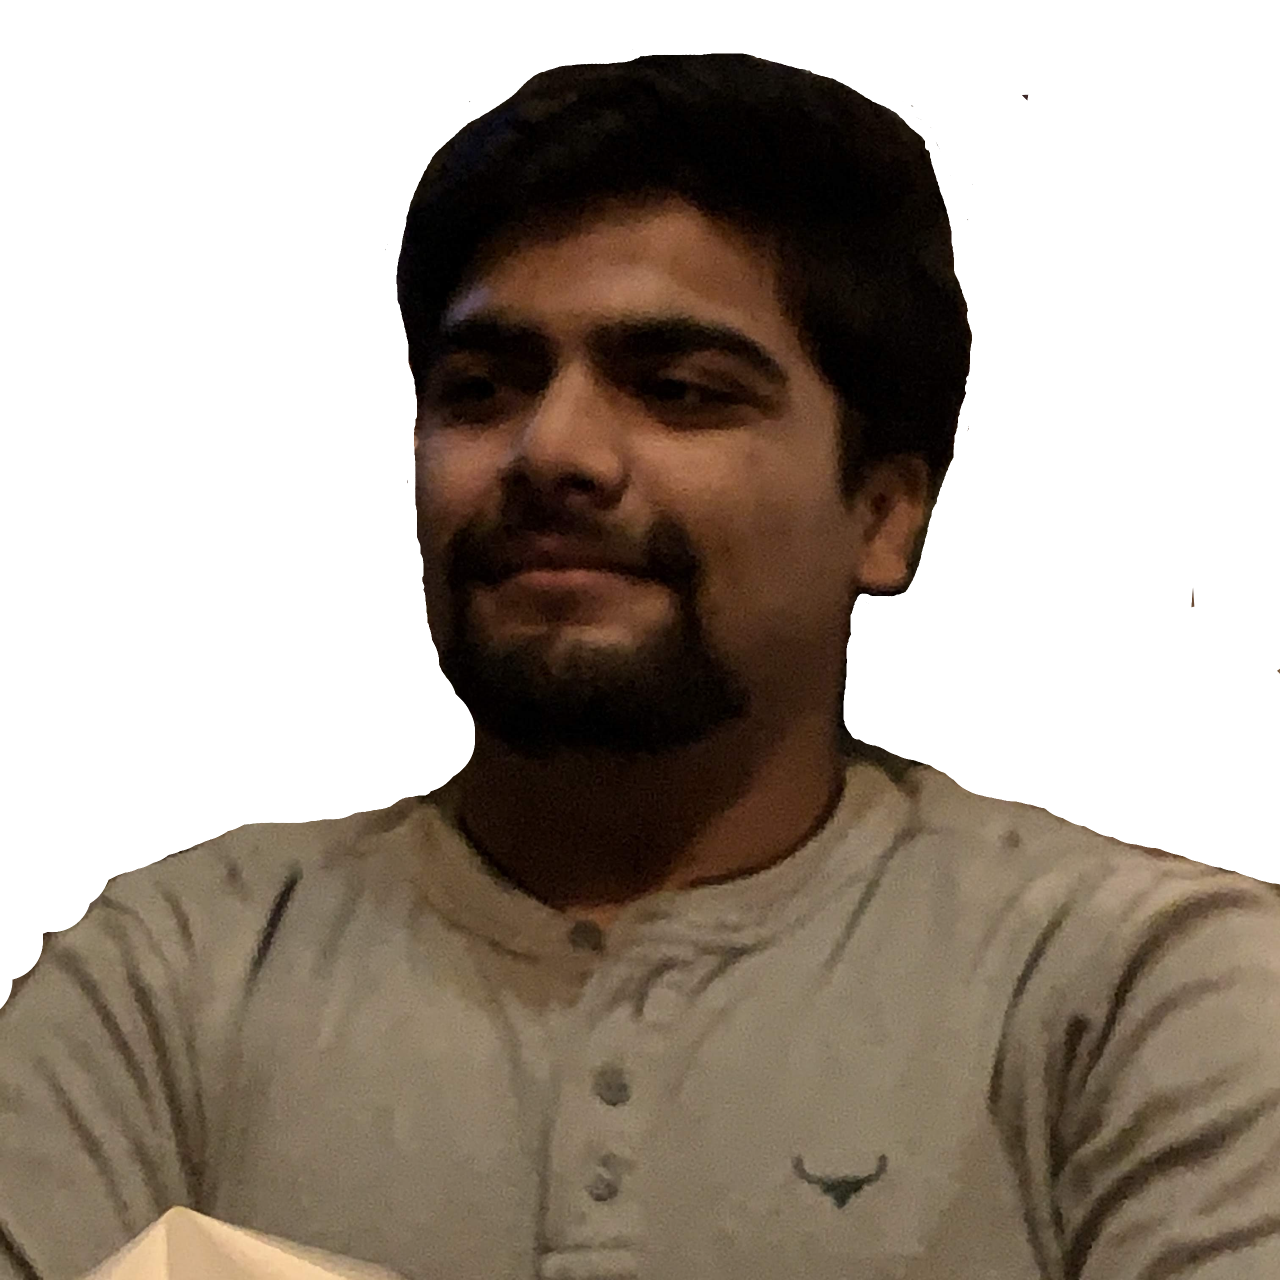
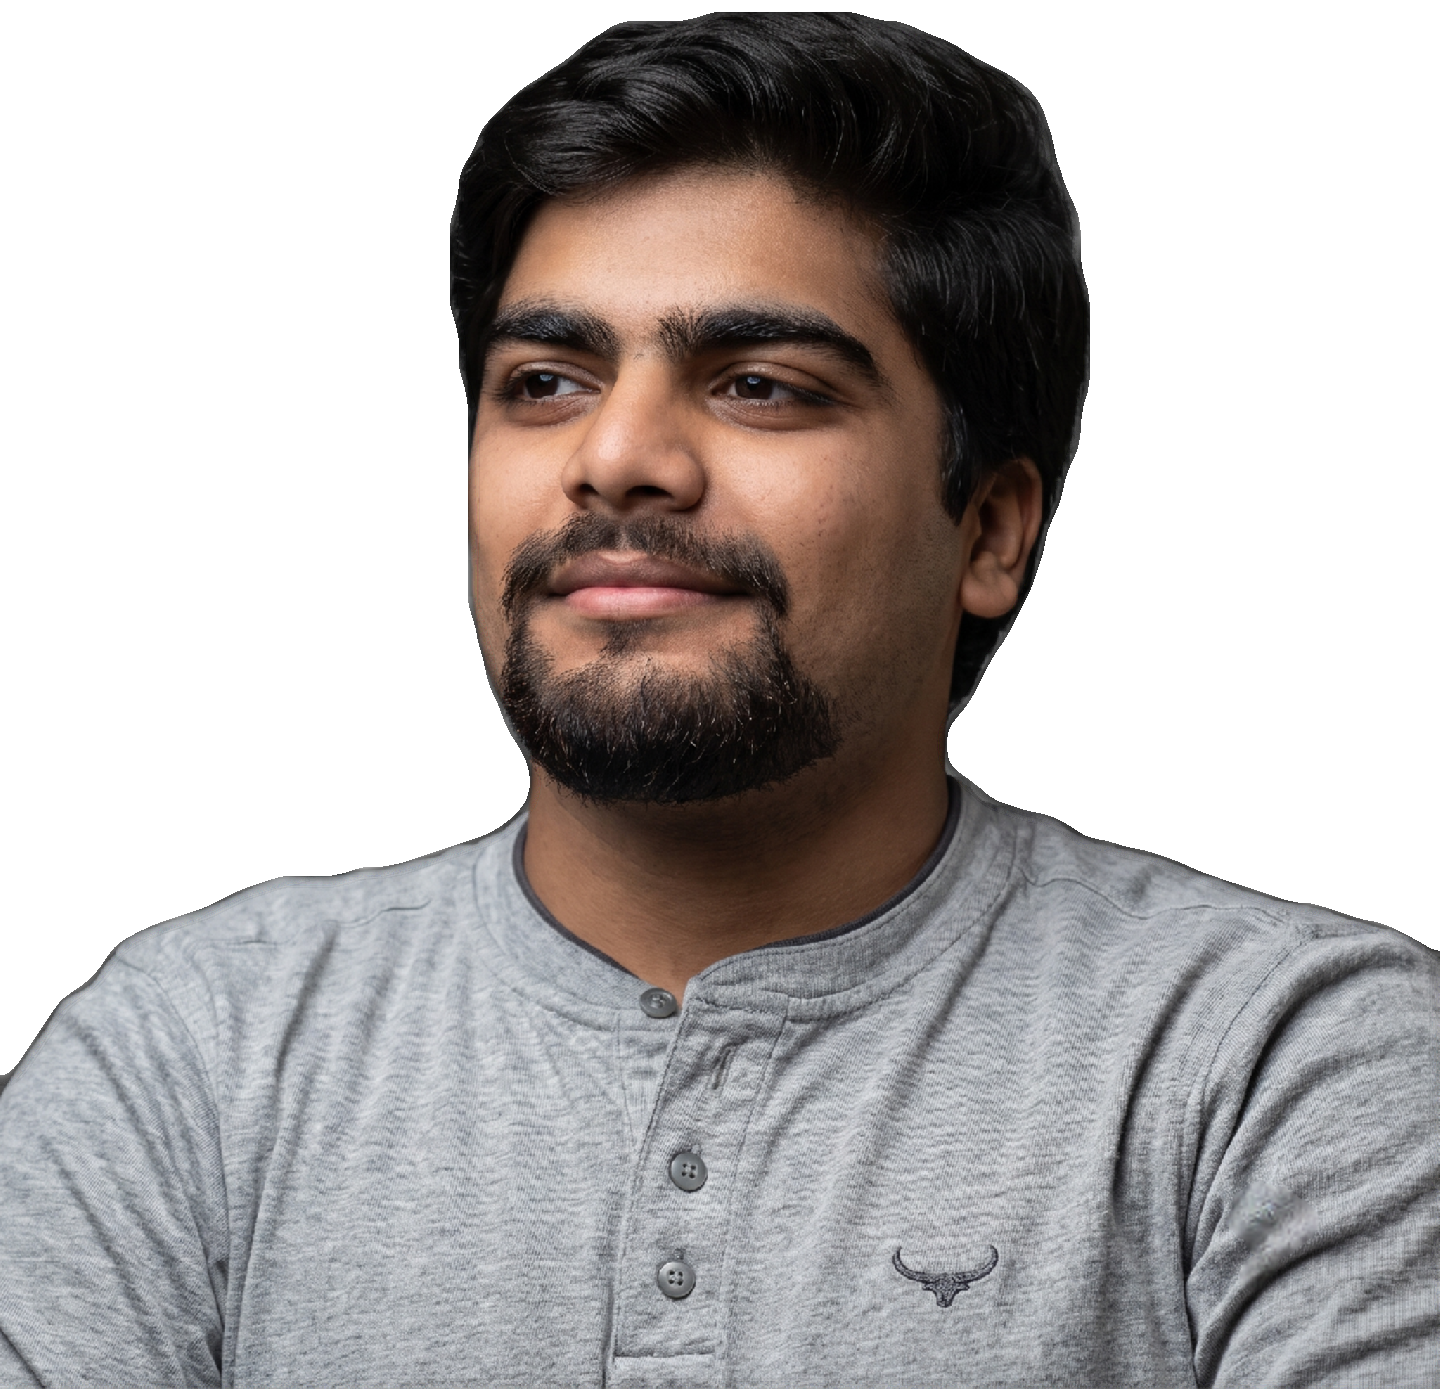
hobbies images added

diff --git a/src/profile.js b/src/profile.js
@@ -123,7 +123,7 @@ const experience = [
   {
     company: "Samsung Research Institute, Bangalore",
     role: "Chief Engineer — AI/ML Engineering",
-    period: "Aug 2021 – Present",
+    period: "Aug 2021 - Present",
     current: true,
     points: [
       "Architected B-UniQUE.ai — a multi-agent LLM framework (four specialized agents) that drives Bixby end-to-end from a single utterance: setup, navigation, verdict, and multi-turn dialogue.",
@@ -138,7 +138,7 @@ const experience = [
   {
     company: "B2be.com",
     role: "Java Developer",
-    period: "Sep 2019 – Jul 2021",
+    period: "Sep 2019 - Jul 2021",
     points: [
       "Built an OCR-based data-extraction pipeline for ERP integration — converting vendor PDFs into structured data as an EDI gateway across heterogeneous ERP ecosystems.",
       "Built configurable extraction rules supporting multiple client ERP implementations, improving onboarding speed for new clients.",
@@ -147,7 +147,7 @@ const experience = [
   {
     company: "Samsung Research (via Access Automation Pvt. Ltd.)",
     role: "Test Engineer",
-    period: "Apr 2017 – Aug 2019",
+    period: "Apr 2017 - Aug 2019",
     points: [
       "Built a full-stack Java automation tool for Bixby testing with remote server-side evaluation via a web interface.",
       "Developed a full-stack internal app using Node.js and Electron for automation workflows.",
@@ -165,7 +165,7 @@ const projects = [
     tag: "Production · Samsung Research",
     blurb:
       "End-to-end ASR & NMT evaluation framework across 5+ Galaxy AI solutions (Live Translate, Interpreter, Dictation, Text Call, Voice Recorder), replacing manual review with standardized automated scoring for Hinglish / multilingual edge cases.",
-    metrics: ["173,999+ audio files", "+5–7% ASR quality", "4 locales", "Demoed to CTO"],
+    metrics: ["173,999+ audio files", "+5-7% ASR quality", "4 locales", "Demoed to CTO"],
     stack: ["Python", "diff-match-patch", "LaBSE", "BLEU", "UIAutomator", "Ollama"],
   },
   {
@@ -236,7 +236,7 @@ const hobbies = [
   },
   {
     title: "Trekking",
-    blurb: "Weekend trails and boulder country around Karnataka.",
+    blurb: "Weekend trails and boulder around.",
     image: "hobbies/trekking.jpg",
     url: INSTAGRAM,
   },
@@ -262,21 +262,21 @@ const publications = {
   education: {
     degree: "B.Tech, Computer Science",
     school: "Sri Krishna Institute of Technology",
-    period: "2013 – 2017",
+    period: "2013 - 2017",
   },
 };
 
 const contact = {
   pitch:
     "Open to conversations about LLM systems, RAG, AI evaluation, and agentic automation. Let's build something.",
-  email: "dheeraj30nov@gmail.com",
+  email: "dheerajr10ao@gmail.com",
   contactUrl: "https://formspree.io/f/xvodqebl",
 };
 
 const social = {
   github: "https://github.com/DheerajR1",
   linkedin: "https://www.linkedin.com/in/dheeraj-rangarao-888810118/",
-  email: "mailto:dheeraj30nov@gmail.com",
+  email: "mailto:dheerajr10ao@gmail.com",
   resume:
     "https://drive.google.com/uc?export=download&id=1CpNA11dA3wG0xbgBigdQo6Vkx97z5pCQ",
 };

diff --git a/src/styles/style.css b/src/styles/style.css
@@ -1524,20 +1524,36 @@ main {
   }
   .hero__photo {
     order: -1;
+    display: grid;
+    grid-template-columns: auto max-content;
+    align-items: start;
+    justify-content: center;
+    column-gap: 4px;
     justify-self: center;
   }
   .hero__photo-frame {
+    grid-column: 1;
+    grid-row: 1;
     width: min(230px, 58vw);
   }
   .hero__photo-vtext {
-    display: block;
-    right: -30px;
-    top: 0;
+    position: static;
+    grid-column: 2;
+    grid-row: 1;
+    padding-top: 2px;
     font-size: 1.35rem;
     letter-spacing: 0.06em;
   }
   .hero__photo::before {
-    inset: 12px -12px -12px 12px;
+    inset: 12px 18px -12px 12px;
+  }
+  .hero__photo-cap {
+    grid-column: 1 / -1;
+    margin-top: 12px;
+  }
+  .hero__photo-frame img,
+  .hobby__media img {
+    filter: grayscale(0) saturate(1.04) contrast(1.02);
   }
   .hero__stats {
     grid-template-columns: repeat(2, 1fr);
@@ -1580,7 +1596,22 @@ main {
     padding: 20px 20px 0px 20px;
   }
   .hero {
-    padding: 120px 20px 0;
+    padding: 92px 20px 0;
+  }
+  .hero__grid {
+    gap: 18px;
+  }
+  .hero__photo {
+    column-gap: 3px;
+  }
+  .hero__photo-frame {
+    width: min(230px, 60vw);
+  }
+  .hero__photo-vtext {
+    font-size: 1.24rem;
+  }
+  .hero__photo::before {
+    inset: 10px 16px -10px 10px;
   }
   .skills-grid {
     grid-template-columns: 1fr;

diff --git a/src/hooks/useTheme.js b/src/hooks/useTheme.js
@@ -5,9 +5,9 @@ import { useEffect, useState } from "react";
 export default function useTheme() {
   const [theme, setTheme] = useState(() => {
     try {
-      return localStorage.getItem("theme") || "light";
+      return localStorage.getItem("theme") || "dark";
     } catch {
-      return "light";
+      return "dark";
     }
   });
 
